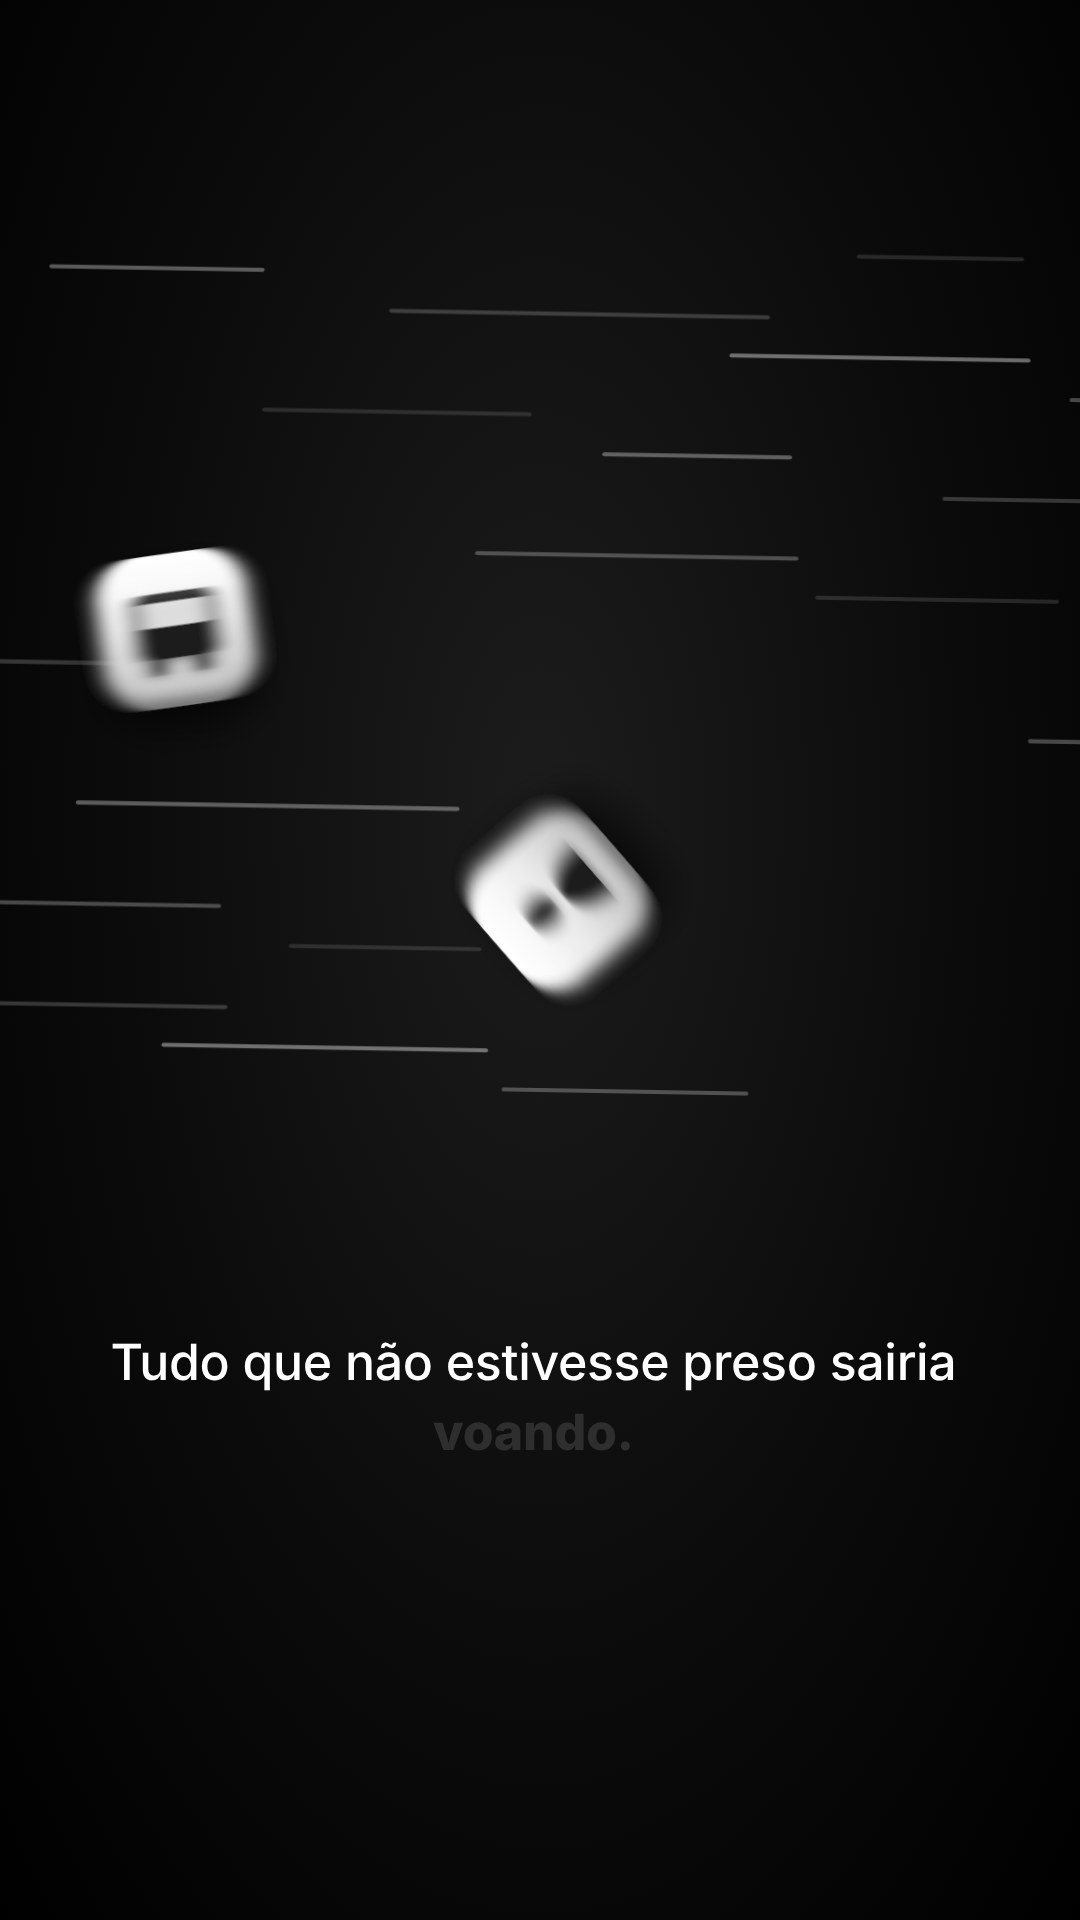
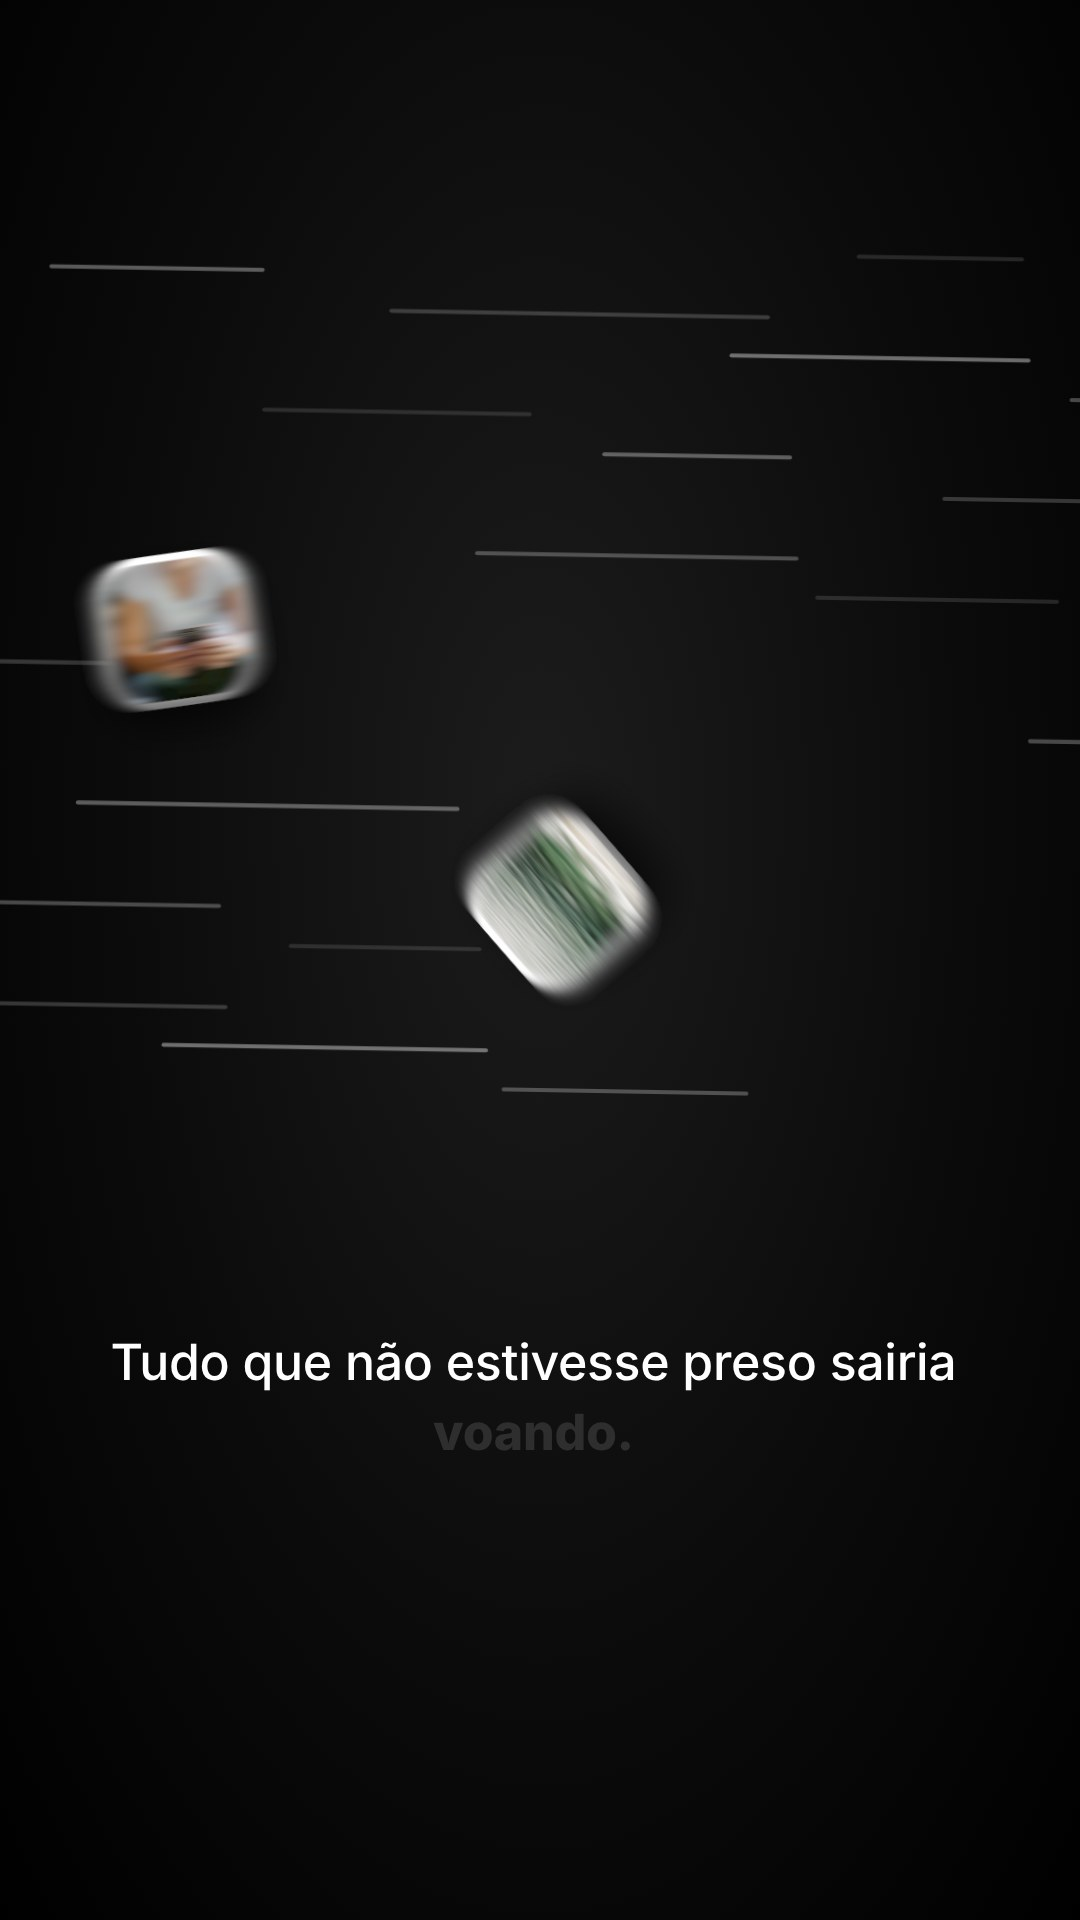
Novo estilo colorido (fotos coloridas, mais fotos, foto em todo ícone de coisa real); Terra refeito
Claude-Session: https://claude.ai/code/session_01RMhrmGVZ8xvx14hiJXZHtB

Changed region(s): [[0.4278, 0.4062, 0.6111, 0.5312], [0.0917, 0.2812, 0.2444, 0.375]]

diff --git a/src/cenas/Visual.tsx b/src/cenas/Visual.tsx
@@ -85,7 +85,7 @@ export const Visual: React.FC<{ v: V; slug: string; roteiro: Roteiro }> = ({ v, 
         <>
           {v.satelites ? <Satelites nomes={v.satelites} /> : null}
           <Entra x={CX} y={CY}>
-            <FotoMoldura src={`${slug}/${v.imagem}`} largura={760} altura={560} legenda={v.legenda} pb={v.pb ?? true} />
+            <FotoMoldura src={`${slug}/${v.imagem}`} largura={760} altura={560} legenda={v.legenda} pb={v.pb ?? false} />
           </Entra>
           {(v.alertas ?? []).map((n, i) => {
             const pos = [

diff --git a/src/componentes/Icone3D.tsx b/src/componentes/Icone3D.tsx
@@ -48,7 +48,7 @@ export const Icone3D: React.FC<{ nome: string; variante?: Cor; tamanho: number; 
             borderRadius: raio * 0.85,
             objectFit: "cover",
             objectPosition: posicao || "50% 50%",
-            filter: `grayscale(1) contrast(1.12) brightness(1.02)`,
+            filter: "saturate(1.15) contrast(1.05)",
             boxShadow: "inset 0 0 0 1px rgba(0,0,0,0.2)",
           }}
         />

diff --git a/src/componentes/FotoMoldura.tsx b/src/componentes/FotoMoldura.tsx
@@ -5,7 +5,7 @@ export const FotoMoldura: React.FC<{ src: string; largura: number; altura: numbe
   src,
   largura,
   altura,
-  pb = true,
+  pb = false,
   legenda,
 }) => (
   <div

diff --git a/CLAUDE.md b/CLAUDE.md
@@ -6,8 +6,8 @@ O Claude faz tudo (pesquisa, roteiro, storyboard, animação em Remotion, sincro
 Quando o dono pedir um vídeo ou temas:
 1. Siga a skill `.claude/skills/video-quebra-padrao/SKILL.md` (fluxo completo).
 2. Para temas, ganchos, capa, legenda do post e métricas: `.claude/skills/crescimento-instagram/SKILL.md`.
-3. Estilo visual: `estilo/GUIA.md`. **Desde 2026-11-23 o padrão fixo é o estilo do vídeo do café** (`estilo/referencias/cafe-prancha.jpg`, `videos/2026-11-23-brasil-nao-tinha-cafe/`), que segue a estrutura do Titanic (`estilo/roteiro-modelo-titanic.md`): preto e branco, fotos reais P&B dentro dos ícones 3D, vermelho #E53935 só em 2–3 momentos por vídeo.
+3. Estilo visual: `estilo/GUIA.md`. **Desde 2026-11-23 o padrão fixo é o estilo do vídeo do café** (`estilo/referencias/cafe-prancha.jpg`, `videos/2026-11-23-brasil-nao-tinha-cafe/`), que segue a estrutura do Titanic (`estilo/roteiro-modelo-titanic.md`): fundo preto, vermelho #E53935 só em 2–3 momentos por vídeo. **Desde 2026-11-25: fotos COLORIDAS, mais fotos e menos desenhos; todo ser vivo/objeto real = foto colorida dentro do ícone 3D** (ver topo de `estilo/GUIA.md`).
 
-Regras fixas: 1080×1920; fundo preto, branco/cinza + vermelho #E53935 só em 2–3 momentos fortes (nenhuma outra cor); coisas reais = foto real P&B dentro do ícone; legenda karaokê sincronizada com a voz; câmera 3D e transições suaves automáticas (`src/componentes/Camera.tsx`), sem elemento borrado na frente; logo do perfil (`estilo/marca/logo.png`) no card final; nada cortado na borda; sem música/efeitos; sem Higgsfield; imagens só livres; site bloqueado → pedir liberação ao dono. Fale com o dono em português simples.
+Regras fixas: 1080×1920; fundo preto, interface branca/cinza + vermelho #E53935 só em 2–3 momentos fortes; fotos coloridas (P&B só se a original não tiver cor); coisas reais = foto colorida dentro do ícone; muitas fotos em moldura, poucos desenhos; legenda karaokê sincronizada com a voz; câmera 3D e transições suaves automáticas (`src/componentes/Camera.tsx`), sem elemento borrado na frente; logo do perfil (`estilo/marca/logo.png`) no card final; nada cortado na borda; sem música/efeitos; sem Higgsfield; imagens só livres; site bloqueado → pedir liberação ao dono. Fale com o dono em português simples.
 
 `docs/superpowers/` guarda um design e um plano de um motor Remotion reutilizável — use como ideia ao construir os componentes, não é obrigatório seguir.

diff --git a/videos/2026-11-24-terra-parasse/imagens/FONTES.md b/videos/2026-11-24-terra-parasse/imagens/FONTES.md
@@ -12,3 +12,10 @@
 | furacao.jpg | Hurricane Florence viewed from the Space Station — NASA | https://commons.wikimedia.org/wiki/File:Hurricane_Florence_Viewed_from_the_Space_Station.jpg | Domínio público |
 | onibus.jpg | Bus passengers in Russia — Ilya Plekhanov | https://commons.wikimedia.org/wiki/File:Bus_passengers_in_Russia.jpg | CC BY-SA 3.0 |
 | oceano.jpg | Drone view of ocean waves — Caleb Jones (Unsplash) | https://commons.wikimedia.org/wiki/File:Drone_view_of_ocean_waves_(Unsplash).jpg | CC0 |
+| jato.jpg | F/A-18 Hornet breaking sound barrier (1999) — Ensign John Gay, U.S. Navy | https://commons.wikimedia.org/wiki/File:FA-18_Hornet_breaking_sound_barrier_(7_July_1999).jpg | Domínio público |
+| sol.jpg | The Sun — NASA/SDO (AIA) | https://commons.wikimedia.org/wiki/File:The_Sun_by_the_Atmospheric_Imaging_Assembly_of_NASA%27s_Solar_Dynamics_Observatory_-_20100819.jpg | Domínio público |
+| vento.jpg | Palm trees blown by Hurricane Dennis — U.S. Navy | https://commons.wikimedia.org/wiki/File:US_Navy_050709-N-0000B-007_Palm_trees_are_blown_around_by_the_force_of_Hurricane_Dennis_on_board_Naval_Air_Station_(NAS)_Key_West.jpg | Domínio público |
+| onibus2.jpg | Ônibus do transporte coletivo urbano de Coronel Fabriciano (MG) — HVL | https://commons.wikimedia.org/wiki/File:%C3%94nibus_do_transporte_coletivo_urbano_de_Coronel_Fabriciano_MG.JPG | CC BY 4.0 |
+| relogio.jpg | Wall Clock — Aaron Willard (The Met) | https://commons.wikimedia.org/wiki/File:Wall_Clock_MET_80840.jpg | CC0 |
+| sofa.jpg | Couch furniture living room sofa — Pixel.la | https://commons.wikimedia.org/wiki/File:Couch-furniture-living-room-sofa_(24300293356).jpg | CC0 |
+| pessoa.jpg | Person sitting indoors using a phone on a sofa — Shixart1985 | https://commons.wikimedia.org/wiki/File:Person_sitting_indoors_using_a_phone_while_resting_on_a_sofa_in_a_casual_setting_closeup.jpg | CC BY 2.0 |

diff --git a/estilo/GUIA.md b/estilo/GUIA.md
@@ -1,5 +1,12 @@
 # Guia de estilo — @quebra.padrao
 
+> **MUDANÇA 2026-11-25 (dono, por falta de engajamento): FOTOS COLORIDAS.**
+> - Todas as fotos aparecem **coloridas** (P&B só se a foto original não tiver cor, ex.: históricas).
+> - **Mais fotos e menos desenhos**: foto em moldura em boa parte das cenas.
+> - Todo **ser vivo ou objeto real** (boi, café, cavalo, chuveiro, Sol, relógio...) = **foto colorida dentro do ícone 3D** (`fotosIcones`). Desenho só para símbolo abstrato (alerta, X, setas, raio, fio terra) ou quando não houver foto livre.
+> - Fundo preto, legenda karaokê, vermelho #E53935 nos 2–3 momentos fortes, câmera/transições e logo continuam iguais.
+> - Onde este guia ainda disser "P&B", vale a regra acima.
+
 **Padrão fixo desde 2026-11-23: o estilo do vídeo do café** (`referencias/cafe-prancha.jpg`; código em `src/`, exemplo em `videos/2026-11-23-brasil-nao-tinha-cafe/roteiro.json`). Ele segue a estrutura e o ritmo do **vídeo do Titanic** (`referencias/titanic-prancha.jpg` e `referencias/titanic/quadro-NN.jpg`, um quadro a cada 2 s).
 Wizebot e Cervello (`referencias/movimento-*`) são só referência de **técnica de movimento** — nunca copiar marca, logo ou a paleta azul/verde.
 

diff --git a/.claude/skills/video-quebra-padrao/SKILL.md b/.claude/skills/video-quebra-padrao/SKILL.md
@@ -25,7 +25,7 @@ Antes de tudo, leia `estilo/GUIA.md` e olhe `estilo/referencias/titanic-prancha.
 - Imagens: domínio público/licença livre (Wikimedia Commons, Library of Congress). Fonte e licença em `videos/<slug>/imagens/FONTES.md`. Sem imagem livre → ícone/gráfico.
 - **Não usar Higgsfield** nem geração de imagem paga.
 - Compare cada storyboard com `estilo/referencias/cafe-prancha.jpg` antes de enviar: se não parece com ele, ajuste.
-- Coisas reais (animais, comidas, objetos) = foto livre P&B dentro do ícone (`fotosIcones`); símbolos (alerta, X, setas, pessoa) desenhados. Vermelho só em 2–3 momentos. Fotos CC BY-SA/GFDL: crédito na legenda do post.
+- **Fotos coloridas** (desde 2026-11-25). Coisas reais (animais, comidas, objetos) = foto livre colorida dentro do ícone (`fotosIcones`), e muitas fotos em moldura; símbolos (alerta, X, setas, pessoa) desenhados. Vermelho só em 2–3 momentos. Fotos CC BY-SA/GFDL: crédito na legenda do post.
 - Storyboard: `npm run storyboard -- <slug> [--cenas id1,id2]`.
 
 ## Transcrição

diff --git a/videos/2026-11-24-terra-parasse/STATUS.md b/videos/2026-11-24-terra-parasse/STATUS.md
@@ -1,3 +1,3 @@
 # Status
 
-Storyboard aprovado (2026-11-24). Prévia sem narração (previa.mp4) enviada. Próximo: dono grava → audio/narracao.wav → transcrever → sincronizar → render.
+Refeito no estilo COLORIDO (2026-11-25): storyboard + prévia enviados. Aguardando áudio da narração.
